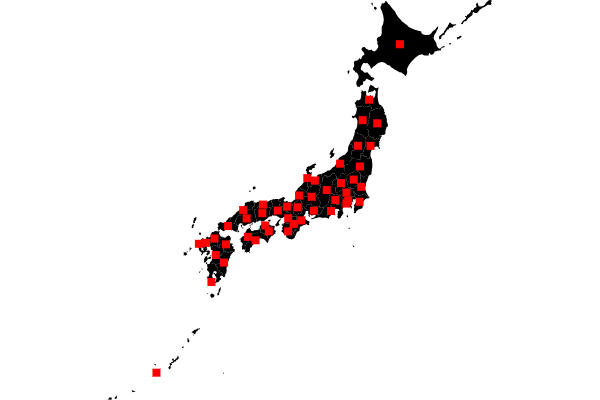
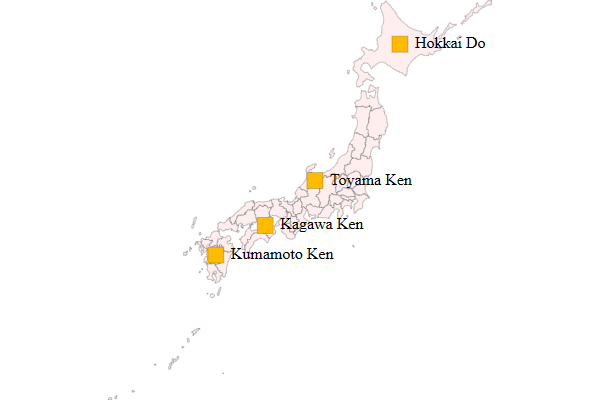
DOC: Add labels and multiple shapes

diff --git a/docs/centroid.html b/docs/centroid.html
@@ -7,18 +7,35 @@
   const map = await fetch("japan.json").then((r) => r.json());
   cartogram("#map", {
     layers: [
-      { type: "choropleth", data: map },
+      {
+        type: "choropleth",
+        data: map,
+        update: (join) => join.attr("fill", "#fee").attr("stroke", "rgba(0,0,0,0.2)"),
+      },
       {
         type: "centroid",
         data: map,
-        update: (join) =>
+        // Randomly pick ~15% of the regions
+        filter: () => Math.random() < 0.15,
+        update: (join) => {
+          // Add a square
           join
             .selectAll("path")
             .data((d) => [d])
             .join("path")
-            .attr("d", "M5,5 v-10 h-10 v10 z")
-            .attr("fill", "lime")
-            .attr("stroke", "red"),
+            .attr("d", "M8,8 v-16 h-16 v16 z")
+            .attr("fill", "#fb0")
+            .attr("stroke", "rgba(0,0,0,0.2)");
+          // Add a label
+          join
+            .selectAll("text")
+            .data((d) => [d])
+            .join("text")
+            .attr("text-anchor", "start")
+            .attr("dx", "15")
+            .attr("dy", "0.25em")
+            .text((d) => d.properties.nam);
+        },
       },
     ],
   });

diff --git a/README.md b/README.md
@@ -95,7 +95,7 @@ Use `.transition()` on in `update` to animate the map.
 
 ## Add shapes at centroid
 
-The `"centroid"` layer type lets you add any shape to the map. This example adds a square at the centroid of each feature.
+The `"centroid"` layer type lets you add any shape to the map. This example adds a square and a label at the centroid of each feature.
 
 [![Map with squares at centroid](https://code.gramener.com/reuse/gramex-cartogram/-/raw/main/docs/centroid.png)](docs/centroid.html ":include")
 
